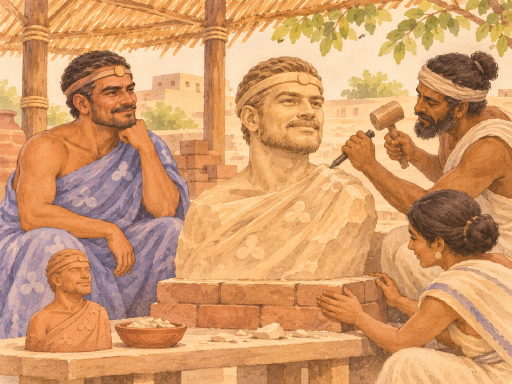
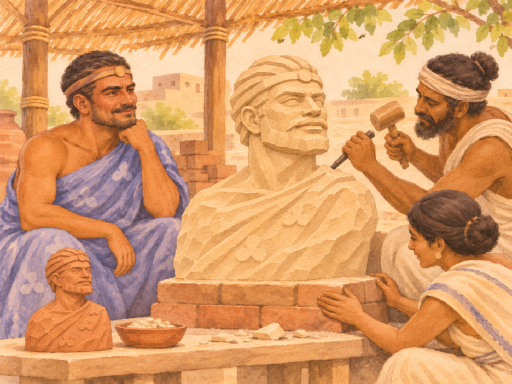
Render Kang bust as carved stone with lapis eyes and record broader palettes

diff --git a/docs/art-direction.md b/docs/art-direction.md
@@ -48,6 +48,29 @@ are settled, and which are still open.
 Read this before proposing a change of direction. Two have been proposed and one was reverted; the
 reasoning is here so a third does not repeat either.
 
+## Colour variety — owner update, 17 November 2026
+
+Future art should use a wider variety of colours. Cozy watercolor does not mean a uniform
+sepia or yellow wash. Keep the accepted style, but give different scenes distinct palettes,
+with useful warm/cool contrast and clean separation between people, architecture and landscape.
+
+- Use varied clothing and accents: light indigo, cobalt/lapis, teal, leaf green, muted plum,
+  terracotta, ochre and cream as appropriate to the scene and established character identities.
+- Let water, sky, shade, vegetation and cloth retain their own hues. Warm paper and sunlight
+  should not turn every material orange. Cool blue/violet shade may balance warm earth and brick.
+- Select a few dominant hues plus restrained accents for each composition. Vary that choice
+  between images; do not put every colour into every painting or push everything to saturation.
+- Keep Kang's living dress light indigo. His carved hair/beard stay stone; the final bust's
+  lapis eyes and sparse ochre/indigo paint are deliberate mineral/paint accents, not living flesh.
+- Map art remains simple NES JRPG with small ramps and clear pixel masses. Wider hue choices
+  do not add fine texture, extra shading steps or SNES detail. Beedu remains the accepted exception.
+- Continue crop/resize-only delivery without palette reduction; accepted work is not automatically
+  regenerated just to introduce this future-facing palette direction.
+
+The owner also linked a shared ChatGPT discussion for specifics. Its contents could not be
+retrieved here; this records the explicit request from this chat, not inferred quotations
+or unverified rules from that linked discussion. Add any supplied excerpt to future prompts.
+
 ## Historical direction: 9 September 2026, three axes
 
 **Corrected the same day.** The first version of this section said "solarpunk, and brighter" and

diff --git a/docs/twin-cities-art-plan.md b/docs/twin-cities-art-plan.md
@@ -1,5 +1,26 @@
 # Harappa and Mohenjo-daro Visual and Story Plan
 
+## Future palette direction — 17 November 2026
+
+Use a **wider variety of colours** in future work: distinct scene palettes, indigo/blue/teal,
+green, plum and earth/cream accents with warm/cool separation. Cozy watercolor should not
+make every surface sepia. Retain character identity, simple NES map pixels and small material
+ramps. This is a prompt/review rule for upcoming batches, not a new repaint phase. See the
+[art guide](art-direction.md#colour-variety--owner-update-17-november-2026). Specifics from the
+linked external chat remain unverified until its text is available. The required illustration
+backlog stays **36 images**.
+
+## Kang statue material correction — 17 November 2026
+
+Both bust event paintings distinguish sculpture from the living sitter: hair, eyebrows, beard,
+moustache, face and cloak read as carved stone, not flesh, hair strands or draped fabric.
+The carving stage remains unpainted pale sandstone; its small study is uniform terracotta clay.
+At the final unveiling only, **lapis lazuli eye inlays** and basic red-ochre/indigo paint accents
+finish the sculpture. Most stone stays bare, especially the carved hair and beard. Living Kang
+keeps his dark hair/beard, brown skin and light-indigo dress. This is a painting correction;
+quest rules, resource requirements and the remaining **36-image** art backlog are unchanged.
+Exact edit prompts and retained raw-history locations are in [the watercolor ledger](twin-kang-watercolor-prompts.md).
+
 ## Priest Kang character and bust — 17 November 2026
 
 Kang now also uses a generated **“nes jrpg sprite”** twenty-pose overworld sheet. His three bust

diff --git a/docs/twin-kang-watercolor-prompts.md b/docs/twin-kang-watercolor-prompts.md
@@ -43,3 +43,30 @@ The map bust remains carved sandstone. The live character always wears light ind
   `beatEvent` now supplies a beat-specific art variant when canon has no explicit artwork.
   EventCard resolves that variant before its shared arc/arrival fallback; canon's explicit art
   stays authoritative. No extra quest is added and no story prose is duplicated or rewritten.
+
+
+## Statue material correction — owner review, 17 November 2026
+
+The earlier paintings made the bust's hair/beard/eyes too lifelike. Owner requested obvious
+coloured stone, then lapis lazuli eyes and basic paintwork for the final unveiling only.
+The carved hair and beard stay unpainted pale stone in both stages. Final mineral eye inlays
+and sparse ochre/indigo accents are decorative presentation, not new quest resources.
+Existing pre-edit runtime and raw versions remain under ignored
+`dump/twin-city-art-review/kang/stone-correction/`; original tool generations remain in their
+existing generated-images location. User explicitly requested correction of the two named
+paintings, which remain registered under the same runtime filenames.
+
+### Carving edit
+
+> undefined
+
+### Unveiling edit
+
+> undefined
+
+
+Corrected generation outputs: carving `exec-33eb0d7b-3587-4ccf-ac6d-b32ad9bd9af8.png`;
+unveiling `exec-7b04819d-35df-43f0-9881-78add1950e02.png`. Rebuilt at the same 512×384,
+full-colour, with unchanged filenames and quest wiring. Future scenes additionally follow
+[broader colour variety](art-direction.md#colour-variety--owner-update-17-november-2026);
+this focused correction preserves the existing scenes' composition and living characters.

diff --git a/docs/twin-valley-implementation.md b/docs/twin-valley-implementation.md
@@ -1,5 +1,16 @@
 # Twin-valley implementation ledger
 
+## Kang statue material correction — 17 November 2026
+
+Both bust event paintings distinguish sculpture from the living sitter: hair, eyebrows, beard,
+moustache, face and cloak read as carved stone, not flesh, hair strands or draped fabric.
+The carving stage remains unpainted pale sandstone; its small study is uniform terracotta clay.
+At the final unveiling only, **lapis lazuli eye inlays** and basic red-ochre/indigo paint accents
+finish the sculpture. Most stone stays bare, especially the carved hair and beard. Living Kang
+keeps his dark hair/beard, brown skin and light-indigo dress. This is a painting correction;
+quest rules, resource requirements and the remaining **36-image** art backlog are unchanged.
+Exact edit prompts and retained raw-history locations are in [the watercolor ledger](twin-kang-watercolor-prompts.md).
+
 ## Latest Kang and phase status — 17 November 2026
 
 Phase-end verification: typecheck, 1,239 focused content/art/retention checks, production build

diff --git a/docs/twin-cities-art-status.md b/docs/twin-cities-art-status.md
@@ -1,5 +1,15 @@
 # Harappan phased plan — completion audit
 
+## Future palette direction — 17 November 2026
+
+Use a **wider variety of colours** in future work: distinct scene palettes, indigo/blue/teal,
+green, plum and earth/cream accents with warm/cool separation. Cozy watercolor should not
+make every surface sepia. Retain character identity, simple NES map pixels and small material
+ramps. This is a prompt/review rule for upcoming batches, not a new repaint phase. See the
+[art guide](art-direction.md#colour-variety--owner-update-17-november-2026). Specifics from the
+linked external chat remain unverified until its text is available. The required illustration
+backlog stays **36 images**.
+
 17 November 2026. Current companion to the [original plan](twin-cities-art-plan.md).
 Counts are checked against the exported valley roster and delivered preferred paintings.
 Existing pixel editions remain playable fallbacks; these are remaining paintings, not missing quests.
